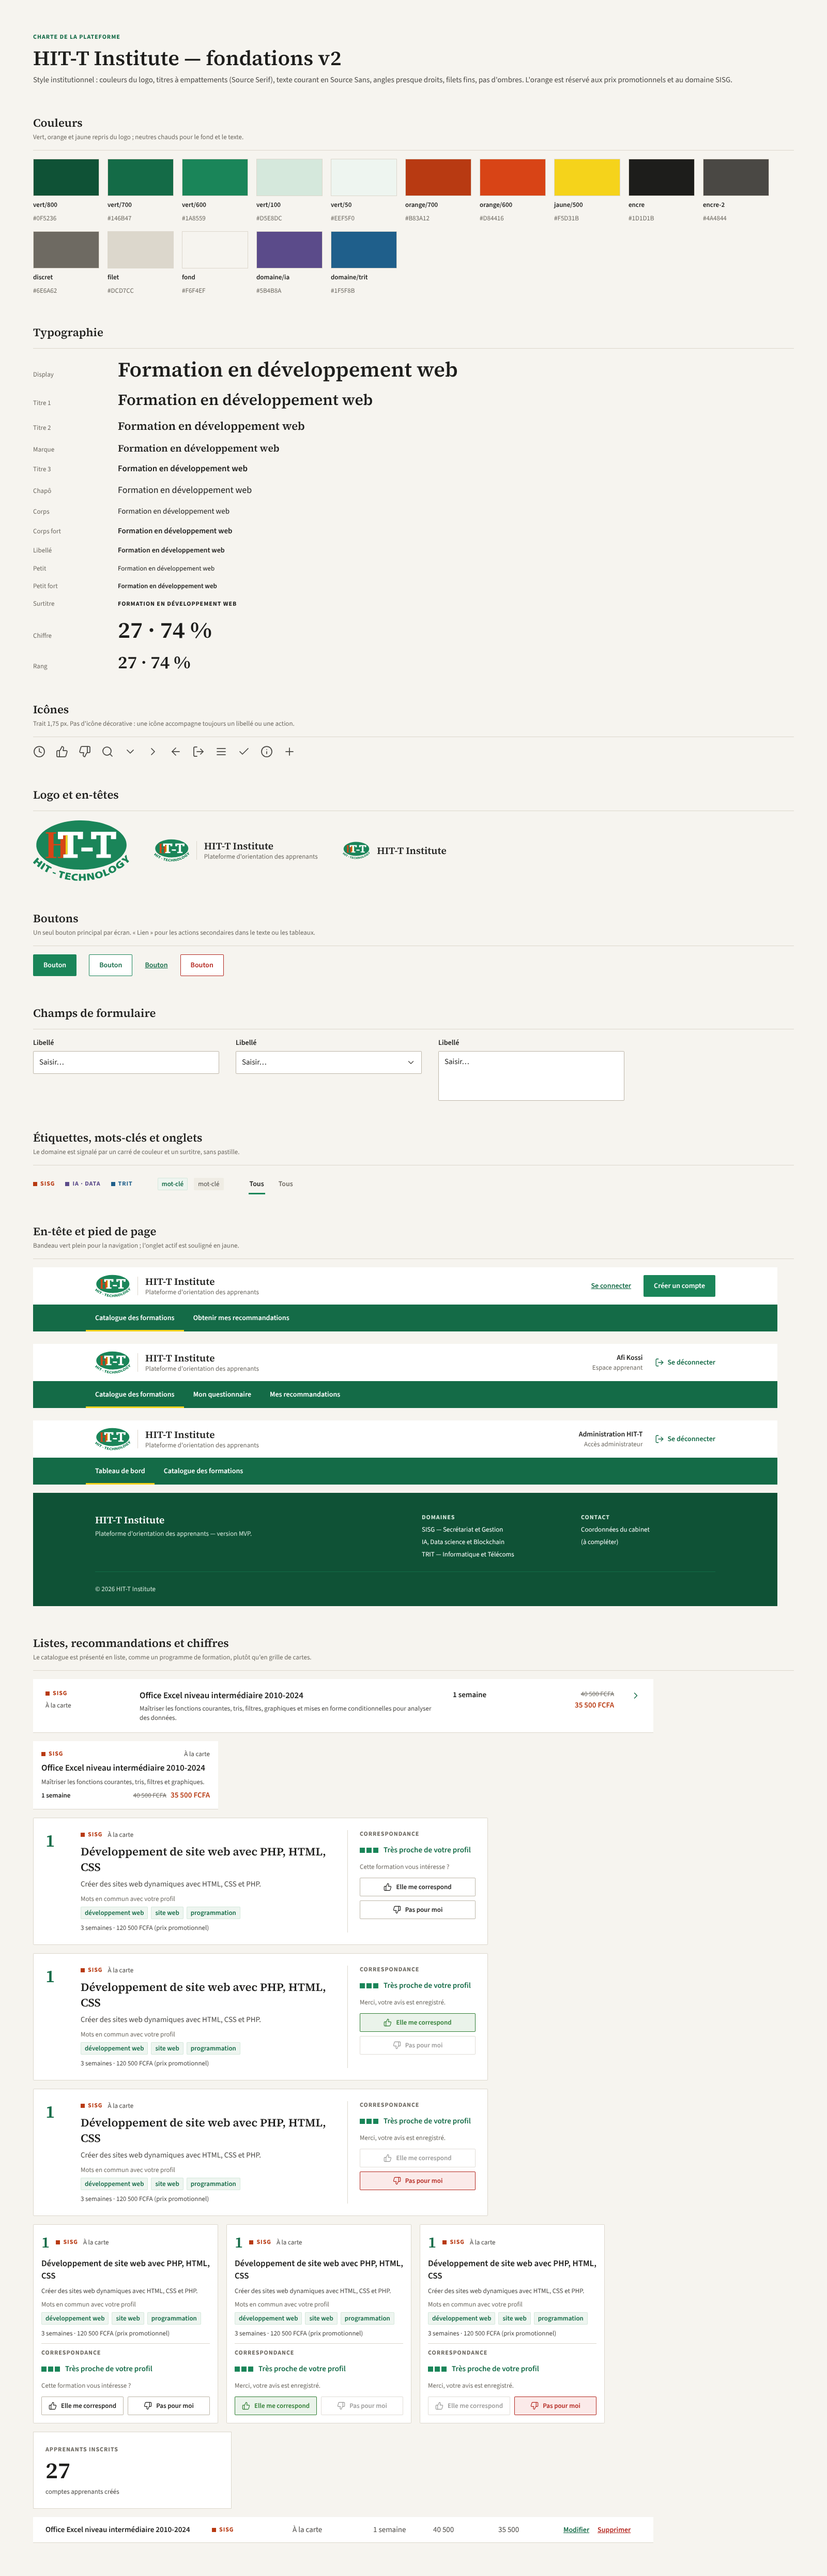
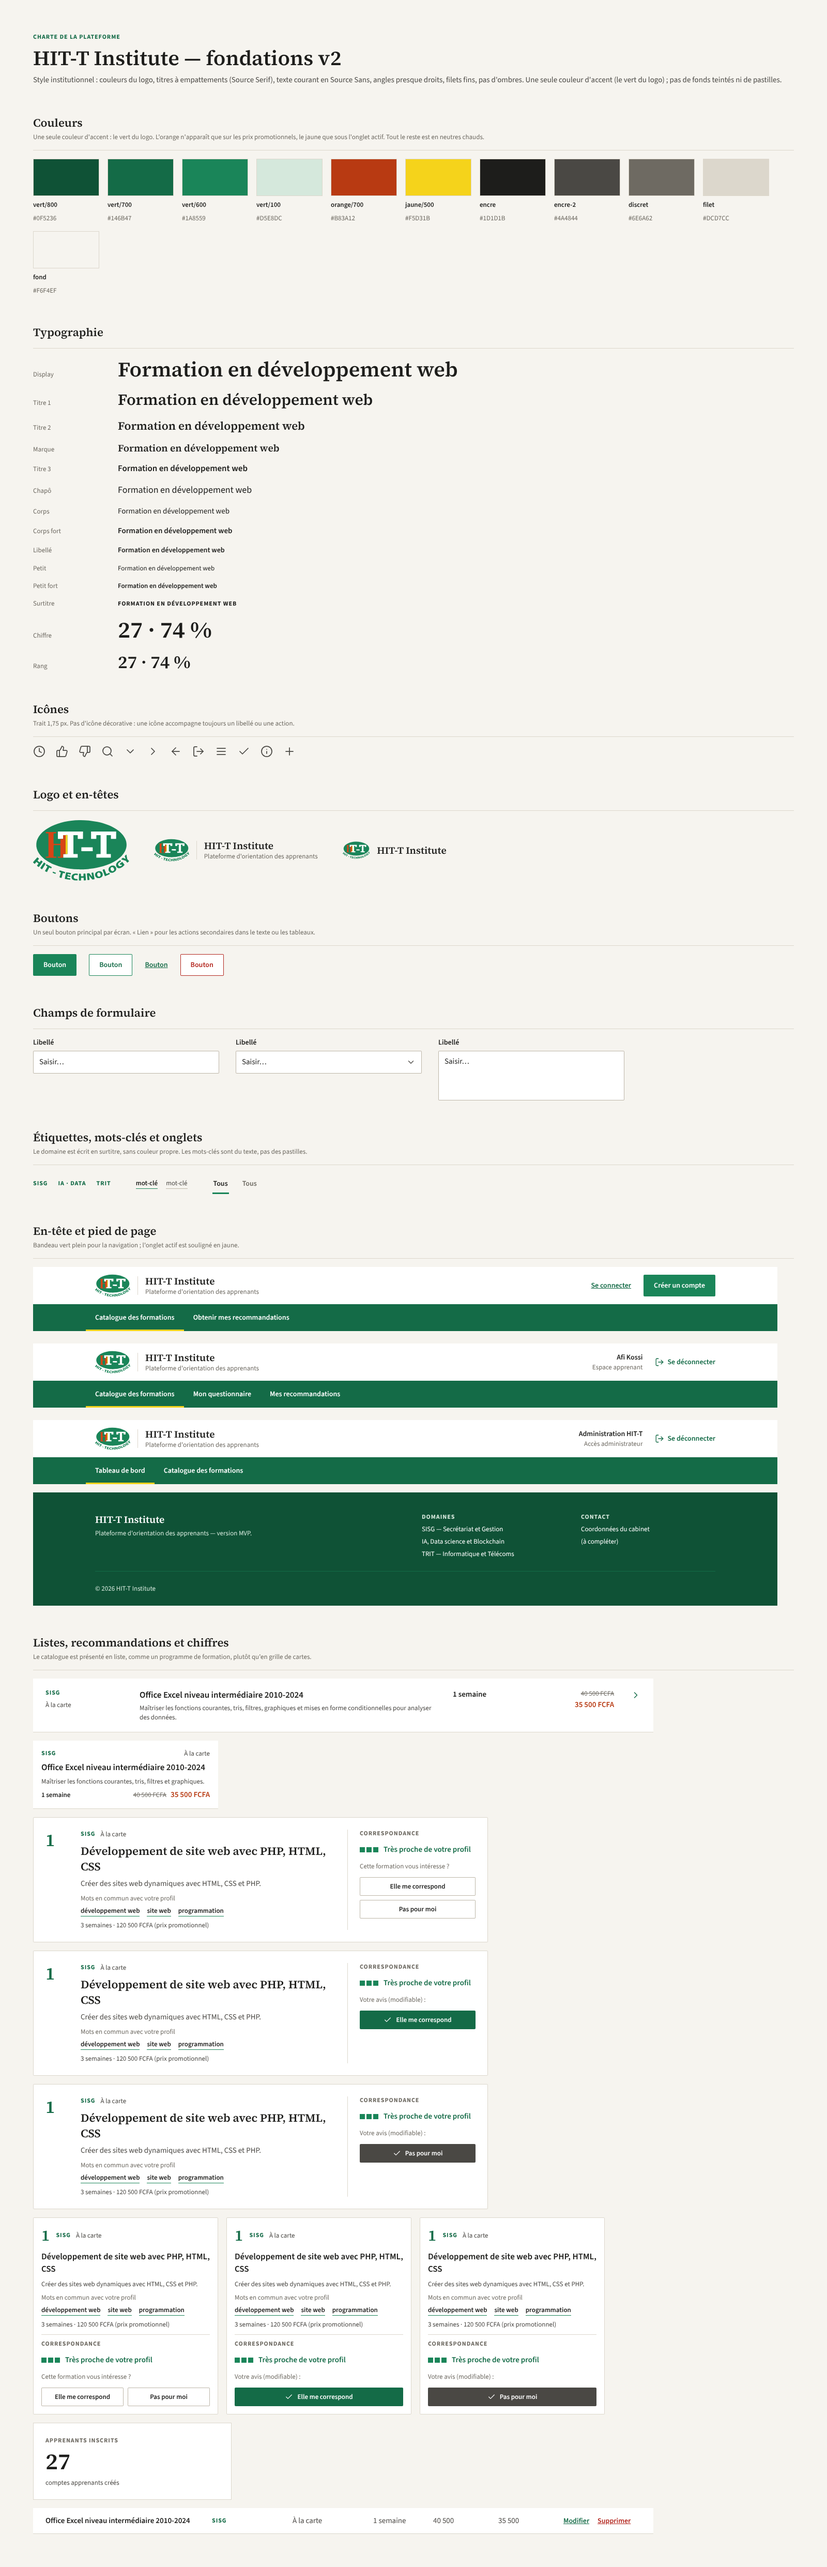
Design v2 : une seule couleur d'accent, sans pastilles ni fonds pastel
Claude-Session: https://claude.ai/code/session_01RyxwZ4ewkXKC6Hwn9jwCTd

diff --git a/design/figma-scripts/v2-01-fondations.js b/design/figma-scripts/v2-01-fondations.js
@@ -18,8 +18,7 @@ const COULEURS = {
   'couleur/encre': '#1D1D1B', 'couleur/encre-2': '#4A4844', 'couleur/discret': '#6E6A62', 'couleur/blanc': '#FFFFFF',
   'couleur/fond': '#F6F4EF', 'couleur/fond-2': '#EFECE4', 'couleur/papier': '#FFFFFF',
   'couleur/filet': '#DCD7CC', 'couleur/filet-fort': '#BDB6A8',
-  'couleur/domaine/sisg': '#B83A12', 'couleur/domaine/ia': '#5B4B8A', 'couleur/domaine/trit': '#1F5F8B',
-  'couleur/succes': '#2E7D32', 'couleur/succes-50': '#EAF3EA', 'couleur/danger': '#B3261E', 'couleur/danger-50': '#FBEAE9',
+  'couleur/danger': '#B3261E',
 };
 const RAYONS = { 'rayon/petit': 2, 'rayon/moyen': 4 };
 // [nom, familles, graisse, taille, interligne, interlettrage %, casse]
@@ -195,7 +194,7 @@ function panel(name, p = 24) {
 function encadre(name) {
   const c = AL('VERTICAL', { name, gap: 8 });
   c.paddingTop = c.paddingBottom = 16; c.paddingLeft = 20; c.paddingRight = 20;
-  c.fills = fill('couleur/vert/50');
+  c.fills = fill('couleur/papier');
   stroke(c, 'couleur/vert/600', 4, 'l');
   return c;
 }
@@ -345,12 +344,12 @@ async function fondations() {
   const intro = AL('VERTICAL', { name: 'Introduction', gap: 8 }); append(board, intro);
   intro.appendChild(await txt('Charte de la plateforme', 'Surtitre', 'couleur/vert/700'));
   intro.appendChild(await txt('HIT-T Institute — fondations v2', 'Display'));
-  await para(intro, 'Style institutionnel : couleurs du logo, titres à empattements (Source Serif), texte courant en Source Sans, angles presque droits, filets fins, pas d\'ombres. L\'orange est réservé aux prix promotionnels et au domaine SISG.', 'Corps', 'couleur/encre-2');
+  await para(intro, 'Style institutionnel : couleurs du logo, titres à empattements (Source Serif), texte courant en Source Sans, angles presque droits, filets fins, pas d\'ombres. Une seule couleur d\'accent (le vert du logo) ; pas de fonds teintés ni de pastilles.', 'Corps', 'couleur/encre-2');
 
   // Couleurs
-  const sCol = await section(board, 'Couleurs', 'Vert, orange et jaune repris du logo ; neutres chauds pour le fond et le texte.');
+  const sCol = await section(board, 'Couleurs', 'Une seule couleur d\'accent : le vert du logo. L\'orange n\'apparaît que sur les prix promotionnels, le jaune que sous l\'onglet actif. Tout le reste est en neutres chauds.');
   const sw = AL('HORIZONTAL', { name: 'Nuancier', gap: 16 }); sw.layoutWrap = 'WRAP'; sw.counterAxisSpacing = 16; append(sCol, sw);
-  for (const n of ['couleur/vert/800', 'couleur/vert/700', 'couleur/vert/600', 'couleur/vert/100', 'couleur/vert/50', 'couleur/orange/700', 'couleur/orange/600', 'couleur/jaune/500', 'couleur/encre', 'couleur/encre-2', 'couleur/discret', 'couleur/filet', 'couleur/fond', 'couleur/domaine/ia', 'couleur/domaine/trit']) {
+  for (const n of ['couleur/vert/800', 'couleur/vert/700', 'couleur/vert/600', 'couleur/vert/100', 'couleur/orange/700', 'couleur/jaune/500', 'couleur/encre', 'couleur/encre-2', 'couleur/discret', 'couleur/filet', 'couleur/fond']) {
     const c = AL('VERTICAL', { name: n, gap: 8 });
     const chip = figma.createRectangle(); chip.name = 'Échantillon'; chip.resize(128, 72); chip.fills = fill(n); chip.strokes = fill('couleur/filet'); chip.strokeWeight = 1;
     c.appendChild(chip);
@@ -454,14 +453,13 @@ async function fondations() {
   }
 
   // Étiquettes, mots-clés, onglets
-  const sTag = await section(board, 'Étiquettes, mots-clés et onglets', 'Le domaine est signalé par un carré de couleur et un surtitre, sans pastille.');
+  const sTag = await section(board, 'Étiquettes, mots-clés et onglets', 'Le domaine est écrit en surtitre, sans couleur propre. Les mots-clés sont du texte, pas des pastilles.');
   const tr = AL('HORIZONTAL', { name: 'Ligne', gap: 48 }); tr.counterAxisAlignItems = 'CENTER'; append(sTag, tr, null);
   {
     const vs = [];
-    for (const [d, label, c] of [['SISG', 'SISG', 'couleur/domaine/sisg'], ['IA-Data', 'IA · Data', 'couleur/domaine/ia'], ['TRIT', 'TRIT', 'couleur/domaine/trit']]) {
+    for (const [d, label, c] of [['SISG', 'SISG', 'couleur/vert/700'], ['IA-Data', 'IA · Data', 'couleur/vert/700'], ['TRIT', 'TRIT', 'couleur/vert/700']]) {
       const e = figma.createComponent(); e.name = 'Domaine=' + d;
       e.layoutMode = 'HORIZONTAL'; e.primaryAxisSizingMode = 'AUTO'; e.counterAxisSizingMode = 'AUTO'; e.counterAxisAlignItems = 'CENTER'; e.itemSpacing = 6; e.fills = [];
-      const sq = figma.createRectangle(); sq.name = 'Repère'; sq.resize(8, 8); sq.fills = fill(c); e.appendChild(sq);
       e.appendChild(await txt(label, 'Surtitre', c));
       vs.push(e);
     }
@@ -470,15 +468,15 @@ async function fondations() {
   }
   {
     const vs = [];
-    for (const [v, bg, fg, style] of [['Oui', 'couleur/vert/50', 'couleur/vert/700', 'Petit fort'], ['Non', 'couleur/fond-2', 'couleur/encre-2', 'Petit']]) {
+    for (const [v, bg, fg, style] of [['Oui', null, 'couleur/encre', 'Petit fort'], ['Non', null, 'couleur/encre-2', 'Petit']]) {
       const e = figma.createComponent(); e.name = 'Commun=' + v;
-      e.layoutMode = 'HORIZONTAL'; e.primaryAxisSizingMode = 'AUTO'; e.counterAxisSizingMode = 'AUTO'; e.fills = fill(bg); pad(e, 3, 8); rad(e);
-      if (v === 'Oui') stroke(e, 'couleur/vert/100');
+      e.layoutMode = 'HORIZONTAL'; e.primaryAxisSizingMode = 'AUTO'; e.counterAxisSizingMode = 'AUTO'; e.fills = []; e.paddingTop = 0; e.paddingBottom = 2;
+      stroke(e, v === 'Oui' ? 'couleur/vert/600' : 'couleur/filet-fort', 1, 'b');
       const t = await txt('mot-clé', style, fg); t.name = 'Mot'; e.appendChild(t);
       vs.push(e);
     }
     const set = figma.combineAsVariants(vs, tr); set.name = 'Mot-clé';
-    set.layoutMode = 'HORIZONTAL'; set.itemSpacing = 12; set.counterAxisAlignItems = 'CENTER'; set.primaryAxisSizingMode = 'AUTO'; set.counterAxisSizingMode = 'AUTO'; set.fills = [];
+    set.layoutMode = 'HORIZONTAL'; set.itemSpacing = 16; set.counterAxisAlignItems = 'CENTER'; set.primaryAxisSizingMode = 'AUTO'; set.counterAxisSizingMode = 'AUTO'; set.fills = [];
     const k = set.addComponentProperty('Mot', 'TEXT', 'mot-clé');
     for (const v of set.children) v.findOne((n) => n.type === 'TEXT').componentPropertyReferences = { characters: k };
     set.description = 'Commun=Oui : mot-clé présent à la fois dans le profil et dans la formation (explication RF-09).';
@@ -601,11 +599,11 @@ async function fondations() {
   // Recommandations (desktop + mobile)
   const fbBtn = async (label, ic, state) => {
     const b = AL('HORIZONTAL', { name: label, gap: 8 }); b.counterAxisAlignItems = 'CENTER'; b.primaryAxisAlignItems = 'CENTER'; pad(b, 9, 12); rad(b);
-    const fg = state === 'oui' ? 'couleur/succes' : state === 'non' ? 'couleur/danger' : 'couleur/encre';
-    b.fills = state === 'oui' ? fill('couleur/succes-50') : state === 'non' ? fill('couleur/danger-50') : fill('couleur/papier');
-    stroke(b, state === 'oui' ? 'couleur/succes' : state === 'non' ? 'couleur/danger' : 'couleur/filet-fort');
-    b.appendChild(await icon(ic, 16, fg));
-    b.appendChild(await txt(label, 'Petit fort', fg));
+    const chosen = state !== 'neutre';
+    b.fills = chosen ? fill(state === 'oui' ? 'couleur/vert/700' : 'couleur/encre-2') : fill('couleur/papier');
+    if (!chosen) stroke(b, 'couleur/filet-fort');
+    if (chosen) b.appendChild(await icon('check', 16, 'couleur/blanc'));
+    b.appendChild(await txt(label, 'Petit fort', chosen ? 'couleur/blanc' : 'couleur/encre'));
     return b;
   };
   const levelRow = async (parent) => {
@@ -642,20 +640,20 @@ async function fondations() {
       const de = await para(body, 'Créer des sites web dynamiques avec HTML, CSS et PHP.', mobile ? 'Petit' : 'Corps', 'couleur/encre-2'); de.name = 'Description';
       const why = AL('VERTICAL', { name: 'Mots en commun', gap: 6 }); append(body, why);
       why.appendChild(await txt('Mots en commun avec votre profil', 'Petit', 'couleur/discret'));
-      const tags = AL('HORIZONTAL', { name: 'Mots-clés', gap: 6 }); tags.layoutWrap = 'WRAP'; tags.counterAxisSpacing = 6; append(why, tags);
+      const tags = AL('HORIZONTAL', { name: 'Mots-clés', gap: 6 }); tags.layoutWrap = 'WRAP'; tags.counterAxisSpacing = 8; tags.itemSpacing = 14; append(why, tags);
       for (const w of ['développement web', 'site web', 'programmation']) tags.appendChild(inst(mot, 'Commun=Oui', { 'Mot': w }));
       const info = await para(body, '3 semaines · 120 500 FCFA (prix promotionnel)', 'Petit', 'couleur/encre-2'); info.name = 'Infos';
       const side = AL('VERTICAL', { name: 'Avis', gap: 12 });
       if (mobile) { rule(r); append(r, side); } else { r.appendChild(side); setW(side, 248); side.paddingLeft = 24; stroke(side, 'couleur/filet', 1, 'l'); side.layoutSizingVertical = 'FILL'; }
       side.appendChild(await txt('Correspondance', 'Surtitre', 'couleur/discret'));
       await levelRow(side);
-      const q = await para(side, retour === 'Aucun' ? 'Cette formation vous intéresse ?' : 'Merci, votre avis est enregistré.', 'Petit', 'couleur/discret'); q.name = 'Question';
+      const q = await para(side, retour === 'Aucun' ? 'Cette formation vous intéresse ?' : 'Votre avis (modifiable) :', 'Petit', 'couleur/discret'); q.name = 'Question';
       const btns = AL(mobile ? 'HORIZONTAL' : 'VERTICAL', { name: 'Boutons', gap: 8 }); append(side, btns);
       const b1 = await fbBtn('Elle me correspond', 'pouce-haut', retour === 'Pertinent' ? 'oui' : 'neutre');
       const b2 = await fbBtn('Pas pour moi', 'pouce-bas', retour === 'Non pertinent' ? 'non' : 'neutre');
       append(btns, b1); append(btns, b2);
-      if (retour === 'Pertinent') b2.opacity = 0.45;
-      if (retour === 'Non pertinent') b1.opacity = 0.45;
+      if (retour === 'Pertinent') b2.visible = false;
+      if (retour === 'Non pertinent') b1.visible = false;
       vs.push(r);
     }
     const set = figma.combineAsVariants(vs, sList); set.name = mobile ? 'Recommandation mobile' : 'Recommandation';

diff --git a/design/figma-scripts/v2-03-ecrans-mobile.js b/design/figma-scripts/v2-03-ecrans-mobile.js
@@ -18,8 +18,7 @@ const COULEURS = {
   'couleur/encre': '#1D1D1B', 'couleur/encre-2': '#4A4844', 'couleur/discret': '#6E6A62', 'couleur/blanc': '#FFFFFF',
   'couleur/fond': '#F6F4EF', 'couleur/fond-2': '#EFECE4', 'couleur/papier': '#FFFFFF',
   'couleur/filet': '#DCD7CC', 'couleur/filet-fort': '#BDB6A8',
-  'couleur/domaine/sisg': '#B83A12', 'couleur/domaine/ia': '#5B4B8A', 'couleur/domaine/trit': '#1F5F8B',
-  'couleur/succes': '#2E7D32', 'couleur/succes-50': '#EAF3EA', 'couleur/danger': '#B3261E', 'couleur/danger-50': '#FBEAE9',
+  'couleur/danger': '#B3261E',
 };
 const RAYONS = { 'rayon/petit': 2, 'rayon/moyen': 4 };
 // [nom, familles, graisse, taille, interligne, interlettrage %, casse]
@@ -195,7 +194,7 @@ function panel(name, p = 24) {
 function encadre(name) {
   const c = AL('VERTICAL', { name, gap: 8 });
   c.paddingTop = c.paddingBottom = 16; c.paddingLeft = 20; c.paddingRight = 20;
-  c.fills = fill('couleur/vert/50');
+  c.fills = fill('couleur/papier');
   stroke(c, 'couleur/vert/600', 4, 'l');
   return c;
 }
@@ -485,7 +484,7 @@ async function questionnaireScreen(idx) {
   let first = true;
   for (const [title, desc, sel] of [['Formation courte, à la carte', 'De 1 jour à 3 mois : un outil ou une compétence précise.', true], ['Parcours modulaire certifiant', 'De 2 à 9 mois : un métier complet.', false]]) {
     const o = AL('HORIZONTAL', { name: 'Option · ' + title, gap: 14 }); pad(o, 14, 16); o.counterAxisAlignItems = 'MIN';
-    o.fills = sel ? fill('couleur/vert/50') : fill('couleur/papier');
+    o.fills = fill('couleur/papier');
     if (!first) stroke(o, 'couleur/filet', 1, 't');
     append(opts, o); first = false;
     const radio = figma.createEllipse(); radio.name = 'Bouton radio'; radio.resize(18, 18); radio.fills = fill('couleur/papier');
@@ -706,7 +705,7 @@ async function ecransMobile() {
   const opts = AL('VERTICAL', { name: 'Options', gap: 0 }); stroke(opts, 'couleur/filet-fort'); rad(opts); append(q3, opts);
   let first = true;
   for (const [title, desc, sel] of [['Formation courte, à la carte', 'De 1 jour à 3 mois.', true], ['Parcours modulaire certifiant', 'De 2 à 9 mois.', false]]) {
-    const o = AL('HORIZONTAL', { name: 'Option · ' + title, gap: 12 }); pad(o, 14); o.counterAxisAlignItems = 'MIN'; o.fills = sel ? fill('couleur/vert/50') : fill('couleur/papier');
+    const o = AL('HORIZONTAL', { name: 'Option · ' + title, gap: 12 }); pad(o, 14); o.counterAxisAlignItems = 'MIN'; o.fills = fill('couleur/papier');
     if (!first) stroke(o, 'couleur/filet', 1, 't');
     append(opts, o); first = false;
     const radio = figma.createEllipse(); radio.name = 'Bouton radio'; radio.resize(18, 18); radio.fills = fill('couleur/papier');

diff --git a/design/figma-scripts/v2-02-ecrans-desktop.js b/design/figma-scripts/v2-02-ecrans-desktop.js
@@ -18,8 +18,7 @@ const COULEURS = {
   'couleur/encre': '#1D1D1B', 'couleur/encre-2': '#4A4844', 'couleur/discret': '#6E6A62', 'couleur/blanc': '#FFFFFF',
   'couleur/fond': '#F6F4EF', 'couleur/fond-2': '#EFECE4', 'couleur/papier': '#FFFFFF',
   'couleur/filet': '#DCD7CC', 'couleur/filet-fort': '#BDB6A8',
-  'couleur/domaine/sisg': '#B83A12', 'couleur/domaine/ia': '#5B4B8A', 'couleur/domaine/trit': '#1F5F8B',
-  'couleur/succes': '#2E7D32', 'couleur/succes-50': '#EAF3EA', 'couleur/danger': '#B3261E', 'couleur/danger-50': '#FBEAE9',
+  'couleur/danger': '#B3261E',
 };
 const RAYONS = { 'rayon/petit': 2, 'rayon/moyen': 4 };
 // [nom, familles, graisse, taille, interligne, interlettrage %, casse]
@@ -195,7 +194,7 @@ function panel(name, p = 24) {
 function encadre(name) {
   const c = AL('VERTICAL', { name, gap: 8 });
   c.paddingTop = c.paddingBottom = 16; c.paddingLeft = 20; c.paddingRight = 20;
-  c.fills = fill('couleur/vert/50');
+  c.fills = fill('couleur/papier');
   stroke(c, 'couleur/vert/600', 4, 'l');
   return c;
 }
@@ -485,7 +484,7 @@ async function questionnaireScreen(idx) {
   let first = true;
   for (const [title, desc, sel] of [['Formation courte, à la carte', 'De 1 jour à 3 mois : un outil ou une compétence précise.', true], ['Parcours modulaire certifiant', 'De 2 à 9 mois : un métier complet.', false]]) {
     const o = AL('HORIZONTAL', { name: 'Option · ' + title, gap: 14 }); pad(o, 14, 16); o.counterAxisAlignItems = 'MIN';
-    o.fills = sel ? fill('couleur/vert/50') : fill('couleur/papier');
+    o.fills = fill('couleur/papier');
     if (!first) stroke(o, 'couleur/filet', 1, 't');
     append(opts, o); first = false;
     const radio = figma.createEllipse(); radio.name = 'Bouton radio'; radio.resize(18, 18); radio.fills = fill('couleur/papier');

diff --git a/design/figma-scripts/README.md b/design/figma-scripts/README.md
@@ -10,7 +10,7 @@ Scripts autonomes à coller dans le plugin **Scripter** (Figma navigateur ou des
 | 2 | `v2-02-ecrans-desktop.js` | 01 Connexion · 02 Inscription · 03 Catalogue · 04 Détail · 05 Questionnaire · 06 Mes recommandations · 07 Tableau de bord · 08 Modifier une formation. |
 | 3 | `v2-03-ecrans-mobile.js` | M1 Catalogue · M2 Questionnaire · M3 Mes recommandations (390 px). |
 
-Principes : bandeau vert plein pour la navigation, titres à empattements, angles de 2 px, filets fins, pas d'ombres ni de pastilles, catalogue en liste, orange réservé aux prix promo et au domaine SISG. Le score de pertinence est remplacé côté apprenant par un libellé (« Très proche / Proche / Peut vous intéresser ») ; le score exact reste en base.
+Principes : une seule couleur d'accent (le vert du logo), orange uniquement sur les prix promo, jaune uniquement sous l'onglet actif ; bandeau vert plein pour la navigation, titres à empattements, angles de 2 px, filets fins ; pas d'ombres, de fonds pastel ni de pastilles ; catalogue en liste. Le score de pertinence est remplacé côté apprenant par un libellé (« Très proche / Proche / Peut vous intéresser ») ; le score exact reste en base.
 
 Aperçu attendu (rendu simulé, hors Figma) : [`../apercu-v2/`](../apercu-v2/).
 
